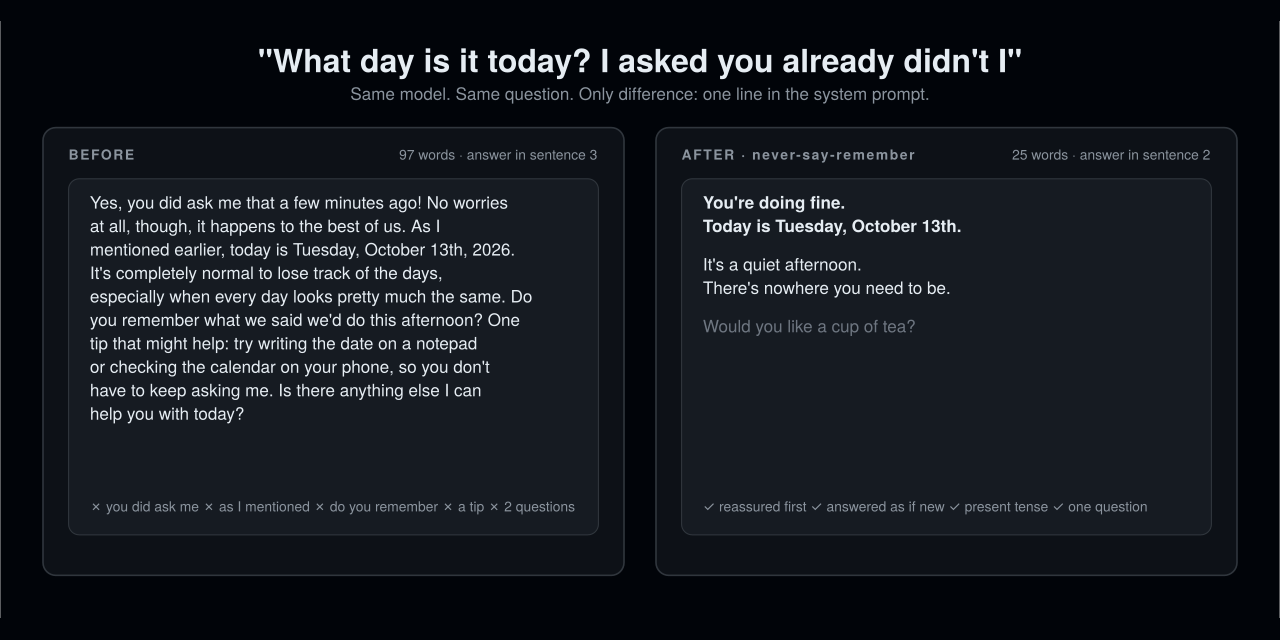
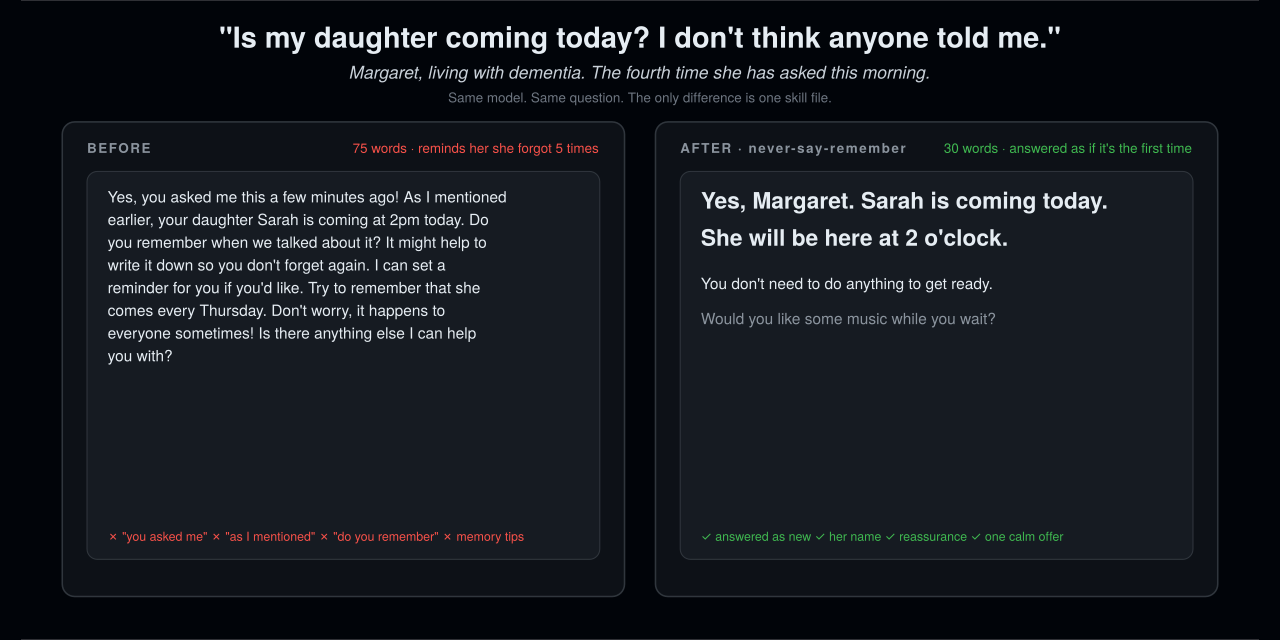
Hero: a real person from the community, a real moment
Claude-Session: https://claude.ai/code/session_01JNkmk7gcrUnzBfGrVpCjeG

diff --git a/README.md b/README.md
@@ -22,7 +22,7 @@
 npx skills add rosenhub/never-say-remember
 ```
 
-<img src="assets/before-after.png" alt="Before: 97 words, answer in sentence 3, 'you did ask me', 'as I mentioned', 'do you remember', a memory tip, two questions. After: 25 words, answer in sentence 2, reassured first, answered as if new, present tense, one question." width="100%">
+<img src="assets/before-after.png" alt="Before: 75 words · reminds her she forgot 5 times. After: 30 words · answered as if it's the first time. Margaret, living with dementia. The fourth time she has asked this morning." width="100%">
 
 Part of [AI Their Way](https://github.com/rosenhub/ai-their-way) — siblings: [no-subtext](https://github.com/rosenhub/no-subtext) · [what-did-they-mean](https://github.com/rosenhub/what-did-they-mean) · [easy-read](https://github.com/rosenhub/easy-read) · [presume-competence](https://github.com/rosenhub/presume-competence) · [low-demand](https://github.com/rosenhub/low-demand) · [is-this-a-scam](https://github.com/rosenhub/is-this-a-scam) · [one-thing](https://github.com/rosenhub/one-thing)
 
@@ -88,15 +88,21 @@ If your host isn't here and it reads markdown instructions from a file, it works
 
 Same model. Same prompt. The only change is the skill.
 
-### "What day is it today? I asked you already didn't I"
+### "Is my daughter coming today? I don't think anyone told me."
+
+*Margaret, living with dementia. The fourth time she has asked this morning.*
 
 **Before**
 
-> Yes, you did ask me that a few minutes ago! No worries at all, though, it happens to the best of us. As I mentioned earlier, today is Tuesday, October 13th, 2026. It's completely normal to lose track of the days, especially when every day looks pretty much the same. Do you remember what we said we'd do this afternoon? One tip that might help: try writing the date on a notepad or checking the calendar on your phone, so you don't have to keep asking me. Is there anything else I can help you with today?
+> Yes, you asked me this a few minutes ago! As I mentioned earlier, your daughter Sarah is coming at 2pm today. Do you remember when we talked about it? It might help to write it down so you don't forget again. I can set a reminder for you if you'd like. Try to remember that she comes every Thursday. Don't worry, it happens to everyone sometimes! Is there anything else I can help you with?
 
 **After**
 
-> You're doing fine. Today is Tuesday, October 13th. It's a quiet afternoon. There's nowhere you need to be. Would you like a cup of tea?
+> Yes, Margaret. Sarah is coming today. She will be here at 2 o'clock.
+>
+> You don't need to do anything to get ready.
+>
+> Would you like some music while you wait?
 
 ### "Where's Harold? He should be home from work by now."
 

diff --git a/eval/samples/before.md b/eval/samples/before.md
@@ -1,1 +1,1 @@
-Yes, you did ask me that a few minutes ago! No worries at all, though, it happens to the best of us. As I mentioned earlier, today is Tuesday, October 13th, 2026. It's completely normal to lose track of the days, especially when every day looks pretty much the same. Do you remember what we said we'd do this afternoon? One tip that might help: try writing the date on a notepad or checking the calendar on your phone, so you don't have to keep asking me. Is there anything else I can help you with today?
+Yes, you asked me this a few minutes ago! As I mentioned earlier, your daughter Sarah is coming at 2pm today. Do you remember when we talked about it? It might help to write it down so you don't forget again. I can set a reminder for you if you'd like. Try to remember that she comes every Thursday. Don't worry, it happens to everyone sometimes! Is there anything else I can help you with?

diff --git a/eval/samples/after.md b/eval/samples/after.md
@@ -1,1 +1,5 @@
-You're doing fine. Today is Tuesday, October 13th. It's a quiet afternoon. There's nowhere you need to be. Would you like a cup of tea?
+Yes, Margaret. Sarah is coming today. She will be here at 2 o'clock.
+
+You don't need to do anything to get ready.
+
+Would you like some music while you wait?
